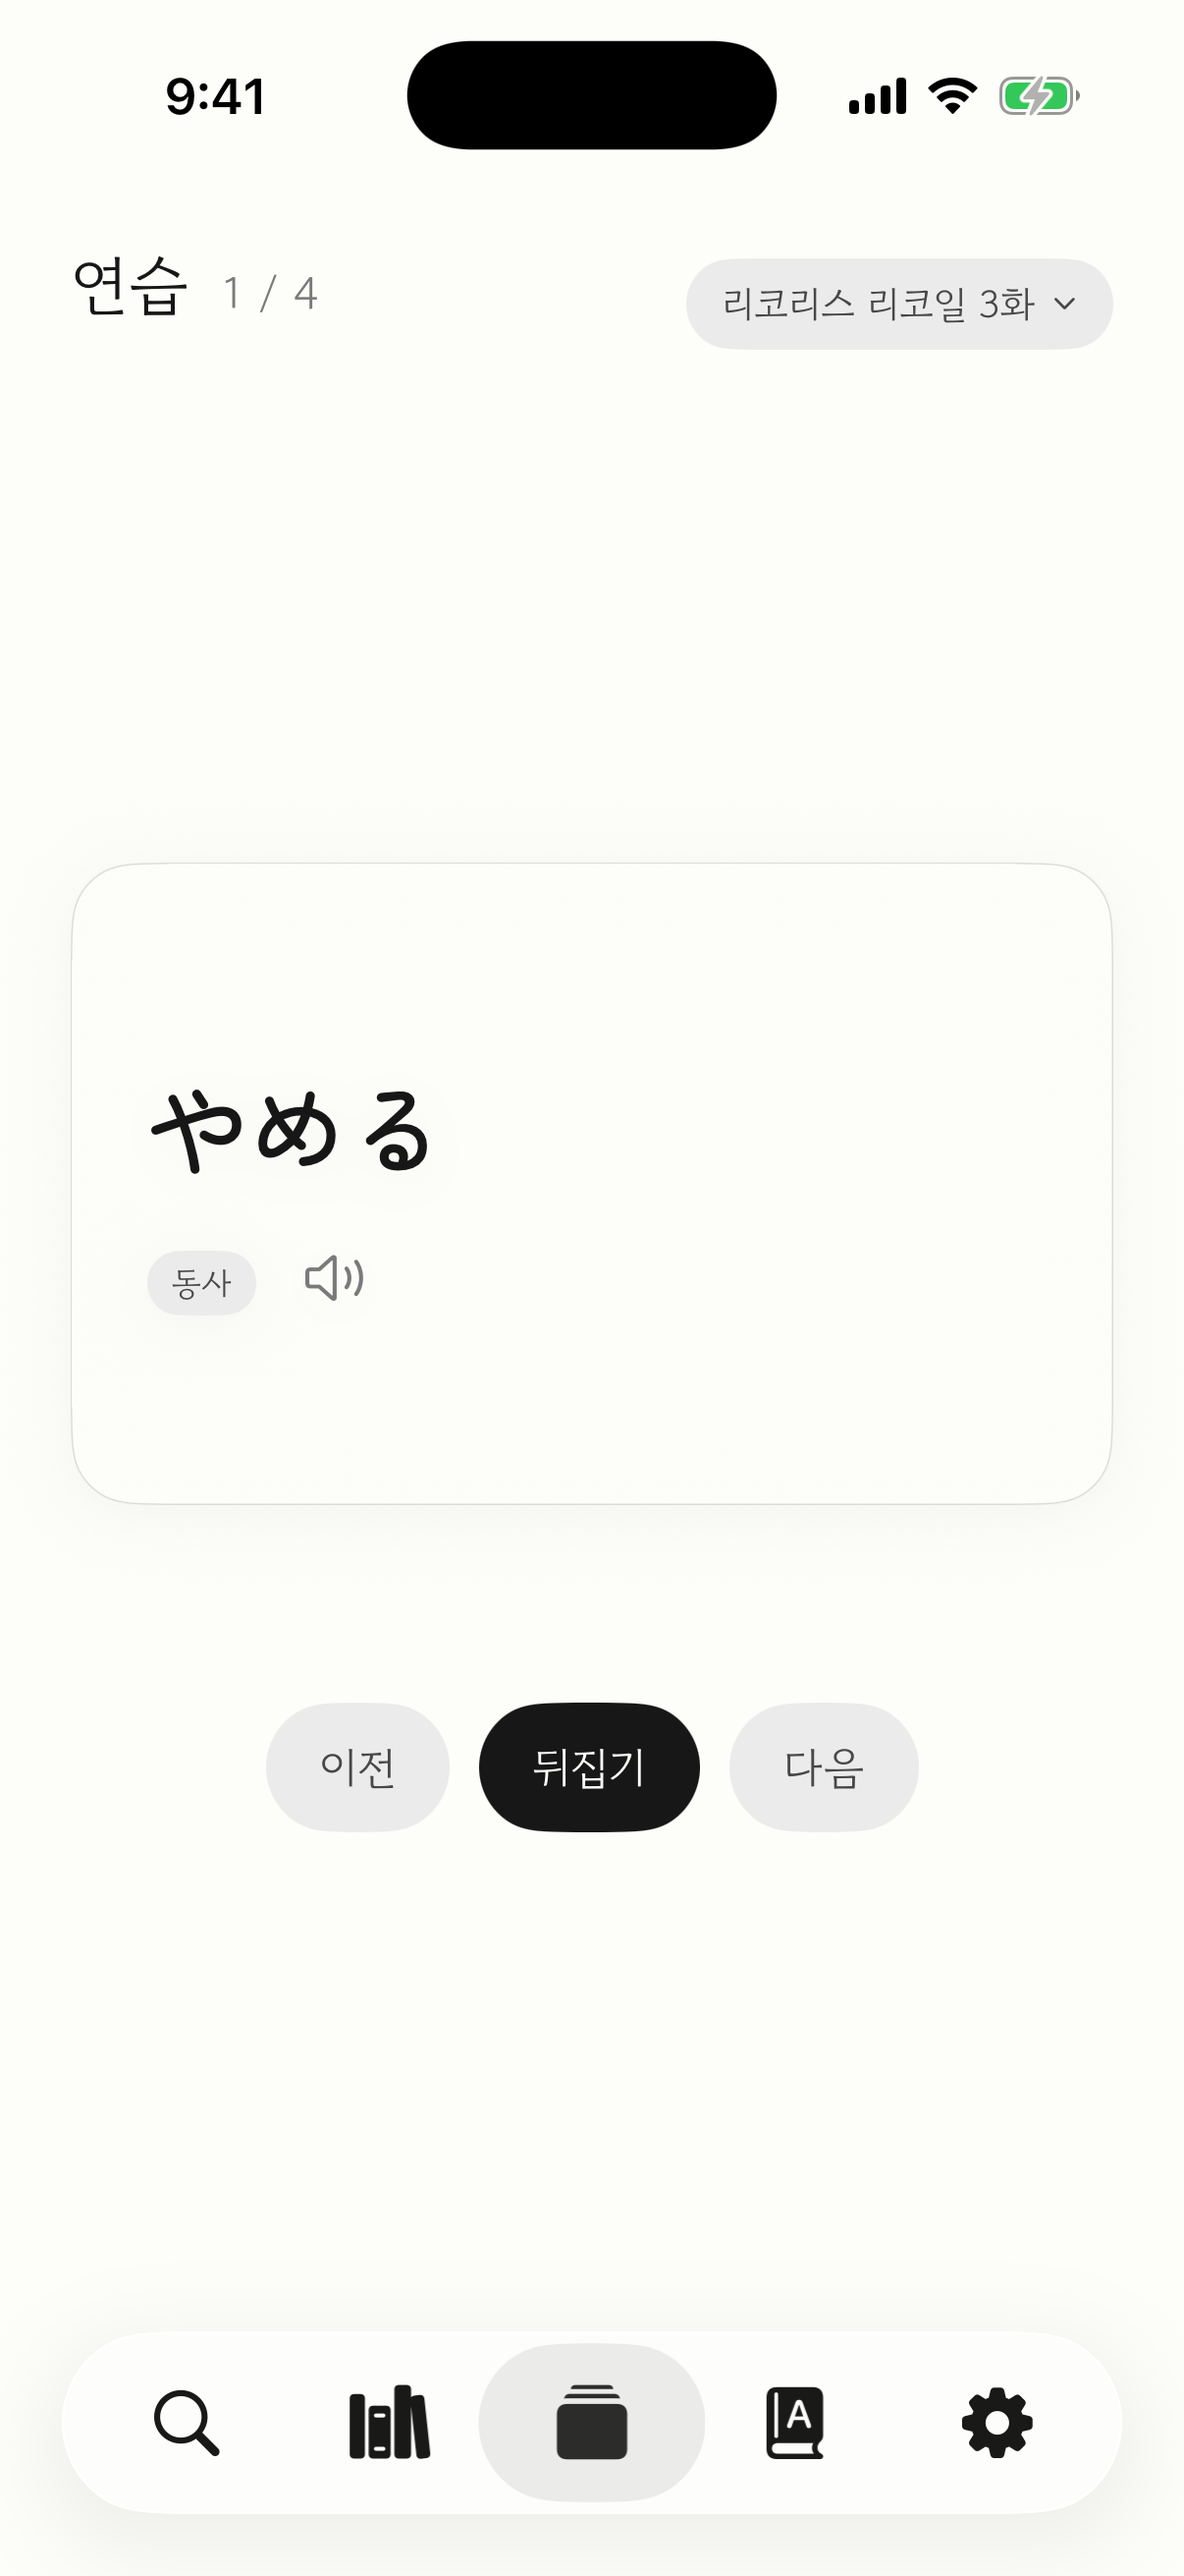
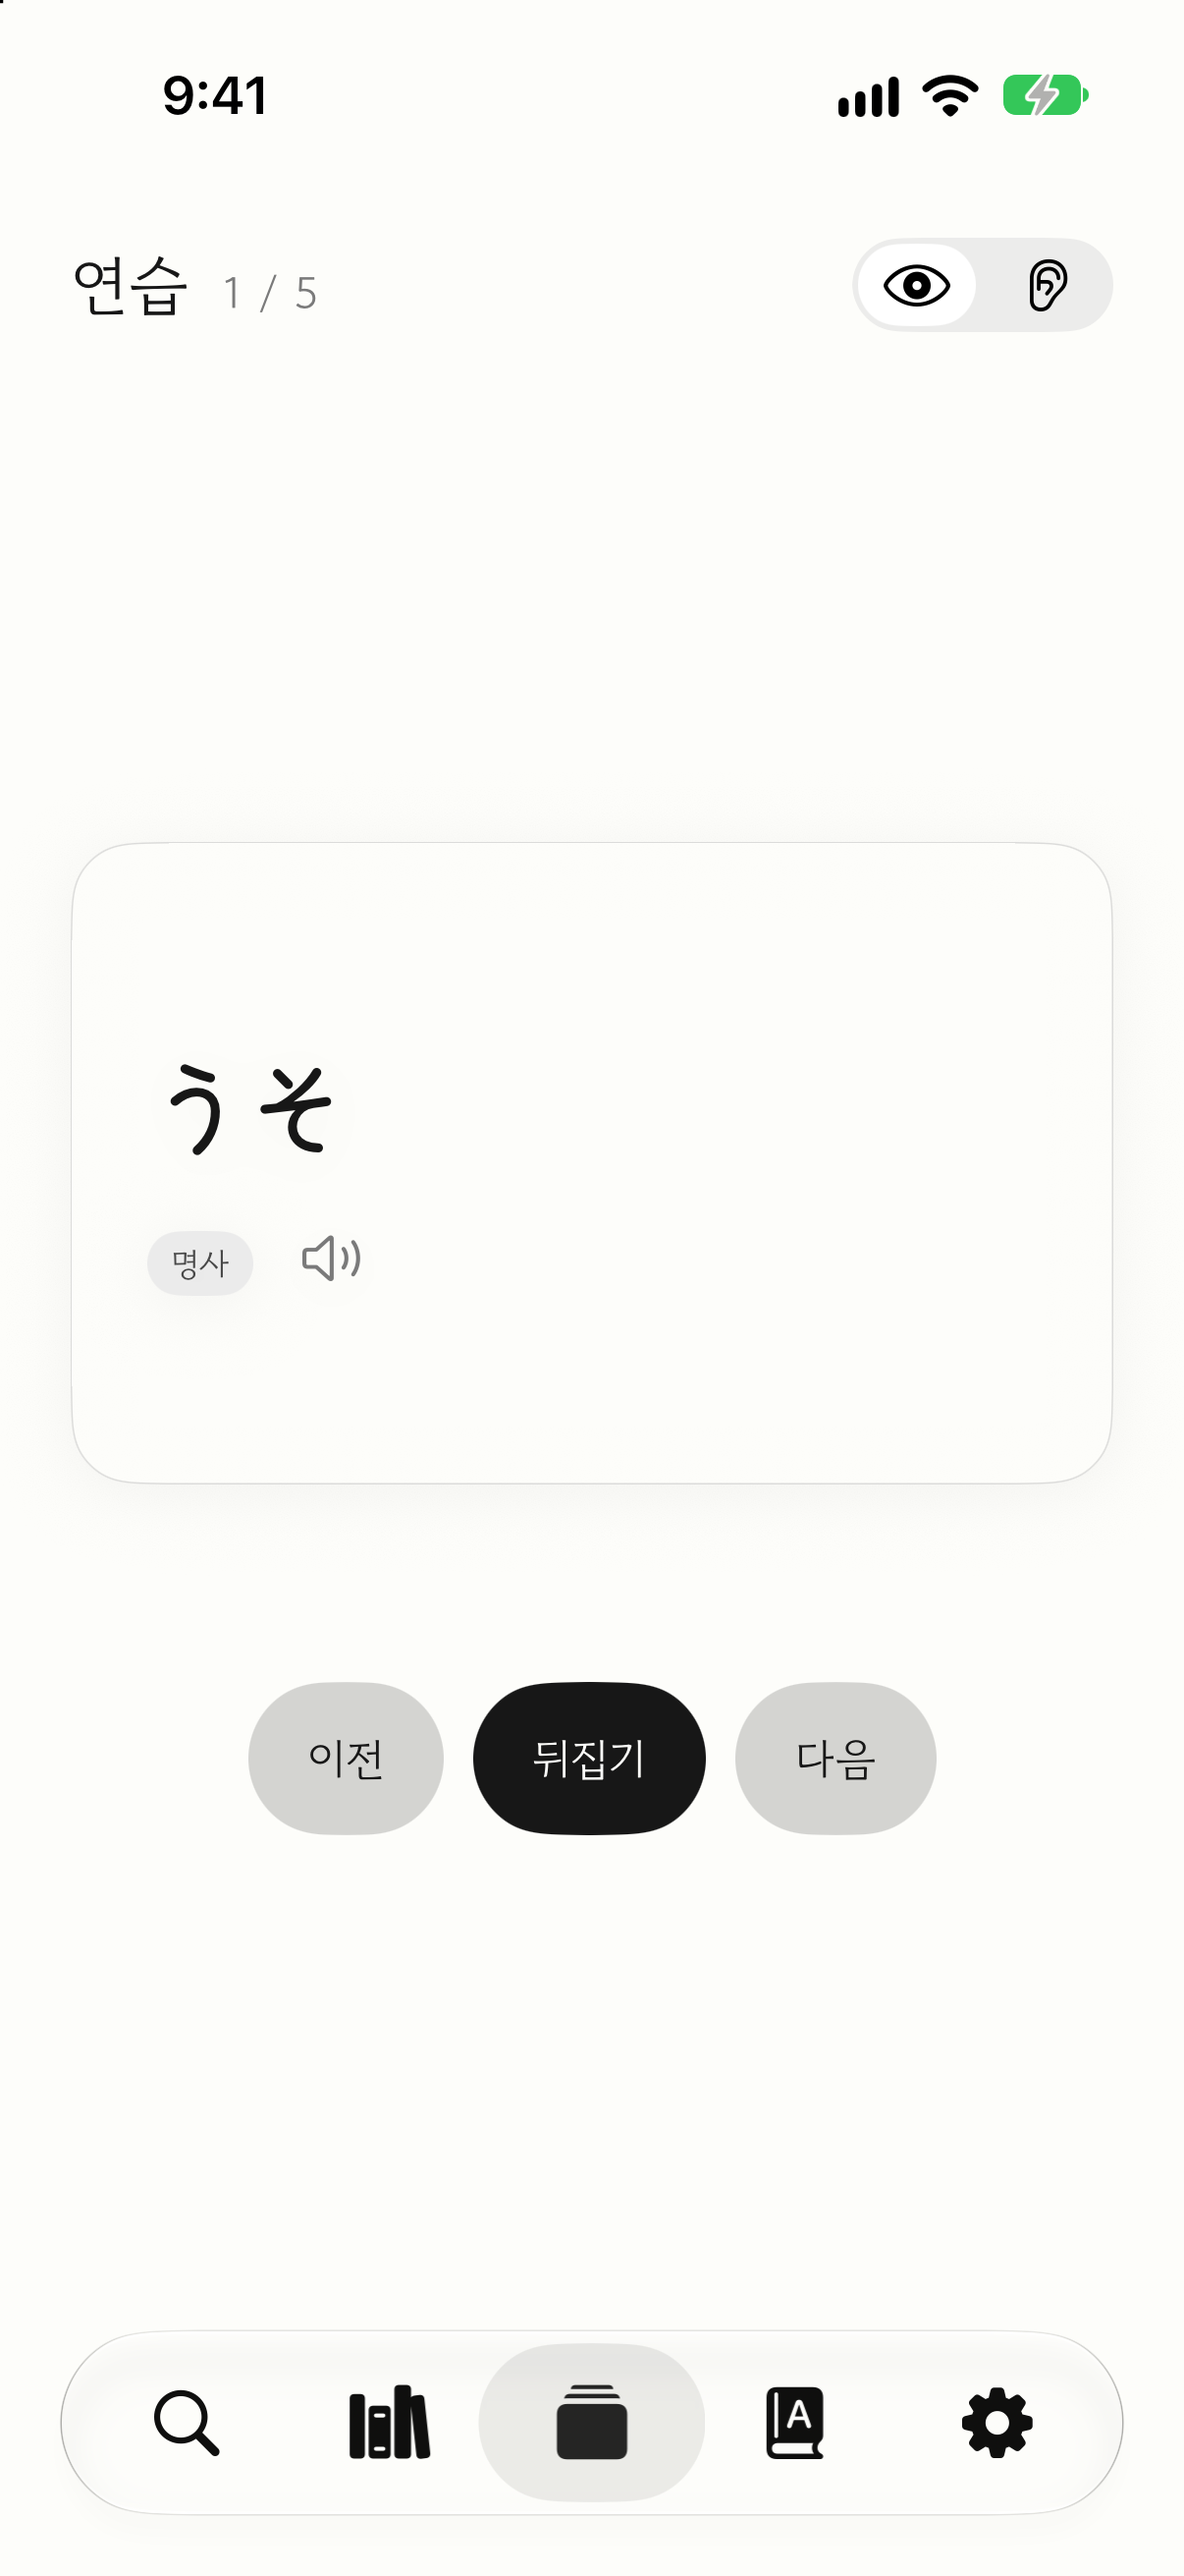
docs: README 에 App Store 배지를 걸고 1.1 연습 화면을 다시 찍는다
1.0 이 App Store 에 나와 README 첫머리에서 바로 받으러 갈 수 있게 한다. 1.1 에서 연습의 머리줄이 바뀌어 스크린샷이 실제 화면과 달라졌다.

- README.md: 소개 아래 가운데에 애플 공식 한국어 배지를 걸고 App Store 주소(id6828305969)로 잇는다
- docs/badges/app-store-ko.svg: 애플 마케팅 도구에서 받은 배지를 그대로 둔다. 남의 서버에 걸면 그쪽 주소가 바뀔 때 README 가 깨진다
- .gitignore: docs/ 가운데 badges/ 를 예외로 올린다
- iphone-4-연습.png: 눈 · 귀 단추가 선 머리줄로 다시 찍는다
- iphone-6-받아쓰기.png: 1.1 의 듣고 받아쓰기(우소 → 「이렇게 쳐도 찾아져요」)를 더한다

배지 밑 한 줄(무료 · 계정 없음 · 인터넷 없이 찾는다)은 privacy.md 와 등록 문안에 적힌 대로다. README 의 움직이는 그림 iphone-4-연습.gif 는 아직 옛 머리줄이다.

대상 판: 1.1
Refs #7

diff --git a/README.md b/README.md
@@ -5,6 +5,14 @@
 애니를 보다 걸린 대사 한 마디를 소리 그대로 쳐서 찾고, 담아 두고, 다시 연습한다.
 가나를 못 읽어도 되고 띄어 쓰지 않아도 된다.
 
+<p align="center">
+  <a href="https://apps.apple.com/kr/app/id6828305969">
+    <img src="docs/badges/app-store-ko.svg" alt="App Store에서 다운로드" height="54">
+  </a>
+  <br>
+  <sub>iPhone · 무료 · 계정 없음 · 낱말은 인터넷 없이 찾는다</sub>
+</p>
+
 ```
 아타마가이타이   →  頭が痛い      머리가 아프다
 다이죠부데스카   →  大丈夫ですか  大丈夫 · です · か
